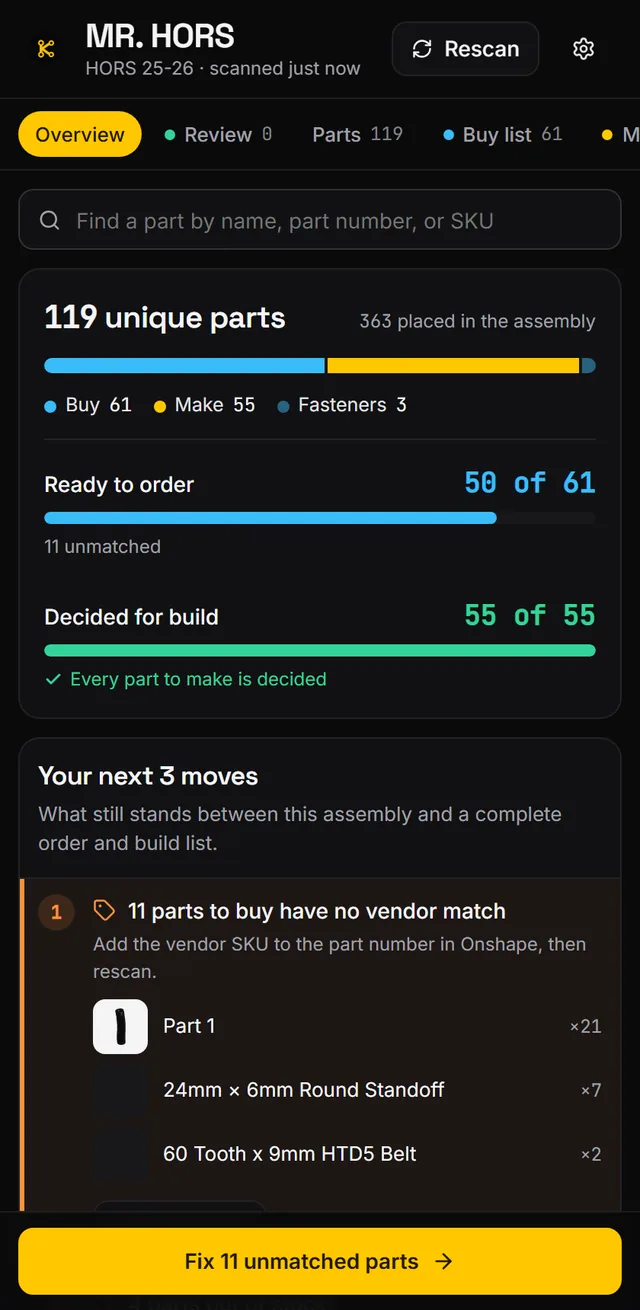
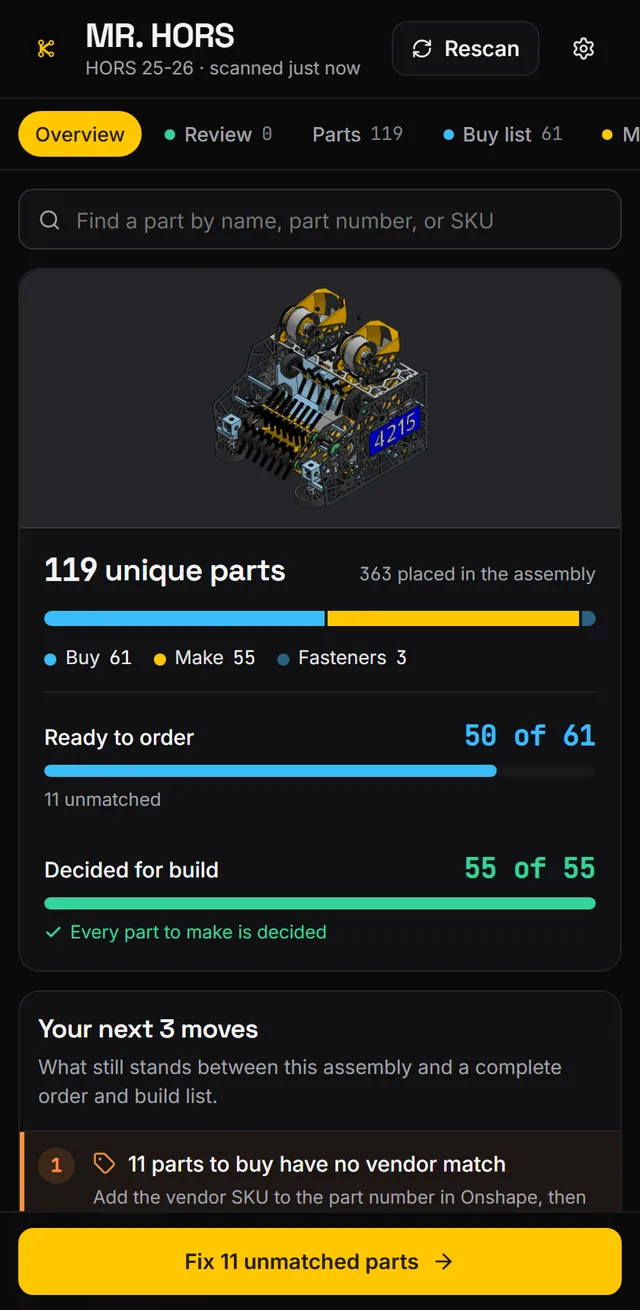
Fit the robot picture on a dark stage; recapture the listing in the new UI (#51)
The status card's Onshape picture was a grid item, so height: 100% did not
apply and the image overflowed its frame and was cropped. It is now a block
box that fits the whole robot. Onshape's shaded views are transparent, so
every picture sits on --ck-stage (#26262b) instead of light grey.

The App Store kit, install page, and share image are recaptured in the
refreshed UI, and the owner's capture of HORS scanning in Onshape is the
install page's hero and the listing's scan screenshot.

diff --git a/apps/web/src/styles/theme.css b/apps/web/src/styles/theme.css
@@ -14,6 +14,8 @@
   --ck-card: #111113;
   --ck-raised: #141416;
   --ck-muted: #18181b;
+  /* Behind Onshape pictures (transparent PNGs): light enough that black plates and edges still read. */
+  --ck-stage: #26262b;
   --ck-text: #f4f4f5;
   --ck-text-muted: #a1a1aa;
   --ck-line: #ffffff14;
@@ -236,9 +238,10 @@ button.row:hover { background: var(--ck-raised); }
 
 /* Overview status card: one bar of every unique part by how it is handled, then the two readiness meters. */
 .status { padding: 16px; display: grid; gap: 12px; }
-.hero-picture { margin: -16px -16px 0; height: 180px; border-radius: 14px 14px 0 0; overflow: hidden; background: #f4f4f5; display: grid; place-items: center; }
-.hero-picture img { width: 100%; height: 100%; object-fit: contain; }
-@media (max-width: 520px) { .hero-picture { height: 140px; } }
+.hero-picture { margin: -16px -16px 0; height: 220px; padding: 12px; border-radius: 14px 14px 0 0; overflow: hidden; background: var(--ck-stage); border-bottom: 1px solid var(--ck-line); }
+/* Block, not grid: a grid row has no definite height, so the image grew past the frame and was cut off. */
+.hero-picture img { display: block; width: 100%; height: 100%; object-fit: contain; }
+@media (max-width: 520px) { .hero-picture { height: 170px; } }
 .status-head { display: flex; flex-wrap: wrap; align-items: baseline; justify-content: space-between; gap: 4px 12px; }
 .status-head h2 { font-size: 1.25rem; }
 .share-bar { display: flex; gap: 2px; height: 10px; border-radius: 999px; overflow: hidden; background: var(--ck-muted); }
@@ -306,7 +309,7 @@ button.row:hover { background: var(--ck-raised); }
 .move-parts li { display: grid; grid-template-columns: 36px minmax(0, 1fr) auto; align-items: center; gap: 10px; font-size: 13px; }
 .move-part-name { overflow: hidden; text-overflow: ellipsis; white-space: nowrap; }
 .mini-thumb { width: 36px; height: 36px; border-radius: 8px; background: var(--ck-muted); overflow: hidden; display: grid; place-items: center; }
-.mini-thumb:has(img) { background: #f4f4f5; }
+.mini-thumb:has(img) { background: var(--ck-stage); }
 .mini-thumb img { width: 100%; height: 100%; object-fit: contain; }
 .done-strip { list-style: none; margin: 0; padding: 10px 16px; display: flex; flex-wrap: wrap; gap: 6px 16px; border-top: 1px solid var(--ck-line); font-size: 12.5px; color: var(--ck-done); }
 .done-strip li { display: inline-flex; align-items: center; gap: 6px; }
@@ -460,15 +463,15 @@ button.row:hover { background: var(--ck-raised); }
   .row, .step { padding: 10px 12px; }
 }
 
-.part-picture { margin: 0; display: grid; place-items: center; min-height: 180px; border: 1px solid var(--border); border-radius: 12px; background: #f4f4f5; overflow: hidden; }
+.part-picture { margin: 0; display: grid; place-items: center; min-height: 180px; border: 1px solid var(--border); border-radius: 12px; background: var(--ck-stage); overflow: hidden; }
 .part-picture img { display: block; width: 100%; height: auto; max-height: 260px; object-fit: contain; }
-.part-picture .muted { color: #52525b; padding: 12px; text-align: center; }
+.part-picture .muted { color: var(--ck-text-muted); padding: 12px; text-align: center; }
 
-.thumb { margin: 0; flex: none; display: grid; place-items: center; background: #f4f4f5; border-radius: 8px; overflow: hidden; }
+.thumb { margin: 0; flex: none; display: grid; place-items: center; background: var(--ck-stage); border-radius: 8px; overflow: hidden; }
 .thumb.thumb-row { display: inline-grid; width: 32px; height: 32px; margin-right: 8px; vertical-align: middle; }
 .thumb.thumb-large { width: 100%; max-width: 240px; padding: 8px; gap: 6px; }
 .thumb img { max-width: 100%; max-height: 100%; object-fit: contain; }
-.thumb.thumb-large figcaption { color: #52525b; }
+.thumb.thumb-large figcaption { color: var(--ck-text-muted); }
 
 .row.focused { background: color-mix(in srgb, var(--ck-volt) 8%, transparent); box-shadow: inset 3px 0 0 var(--ck-volt); }
 .keys-hint { padding: 8px 16px 0; }

diff --git a/apps/web/src/app/Landing.tsx b/apps/web/src/app/Landing.tsx
@@ -11,7 +11,7 @@ const appStoreUrl = 'https://cad.onshape.com/appstore';
 const listed = false;
 
 const features: Array<{ icon: ReactNode; title: string; text: string; image: string; alt: string }> = [
-  { icon: <Boxes aria-hidden />, title: 'Every part, sorted', image: 'overview', alt: 'Overview of a scanned FTC robot: 119 parts, 61 to buy, 55 to make, none waiting for review, $1768.05 priced so far',
+  { icon: <Boxes aria-hidden />, title: 'Every part, sorted', image: 'overview', alt: 'Overview of a scanned FTC robot: its Onshape picture, 119 unique parts split into 61 to buy, 55 to make, and 3 fasteners, $1,768.05 priced so far',
     text: "Control Kit reads the assembly and Onshape's bill of materials, then sorts every part into buy, make, or fastener. Vendor part numbers, standard hardware, linked libraries, and team tags such as \"(3D PRINT)\" decide most parts, so few are left for you." },
   { icon: <ShoppingCart aria-hidden />, title: 'A buy list with real prices', image: 'buy-list', alt: 'Buy list grouped by vendor, with SKUs, quantities, packs to order, prices, and stock',
     text: 'Parts are matched by SKU against the goBILDA, REV, ServoCity, AndyMark, and Pitsco catalogs. Orders round up to whole packs, and a part is priced only when its match, pack size, and price are all verified, so the total never looks complete when it isn\'t.' },
@@ -34,13 +34,13 @@ export function Landing() {
         <a className="landing-link" href={appStoreUrl} target="_blank" rel="noopener noreferrer">Onshape App Store</a>
       </div>
       {!listed && <p className="muted small">Control Kit's App Store listing is waiting for Onshape's review. The steps below work once it is listed.</p>}
-      <img className="landing-shot" src="/listing/overview.webp" width={1600} height={1000} alt={features[0].alt} />
+      <img className="landing-shot" src="/listing/in-onshape.webp" width={2000} height={1000} alt="Control Kit scanning the HORS robot in Onshape's right panel, beside the 3D assembly" />
     </header>
 
     <section className="landing-features" aria-label="What Control Kit does">
       {features.map((feature, index) => <article key={feature.title} className={`landing-feature${index % 2 ? ' flip' : ''}`}>
         <div className="landing-copy"><span className="landing-icon">{feature.icon}</span><h2>{feature.title}</h2><p>{feature.text}</p></div>
-        {index > 0 && <img className="landing-shot" src={`/listing/${feature.image}.webp`} width={1600} height={1000} loading="lazy" alt={feature.alt} />}
+        <img className="landing-shot" src={`/listing/${feature.image}.webp`} width={1600} height={1000} loading="lazy" alt={feature.alt} />
       </article>)}
     </section>
 

diff --git a/CLAUDE.md b/CLAUDE.md
@@ -238,6 +238,7 @@ UI refresh (2026-10-26, from the owner's audit "Control Kit — Full UI Audit an
 - **Screens (PR 2).** Every section opens with `SectionHead` (`bits.tsx`): an icon in its colour job and one line on what the list is for. Review becomes a green "Review complete" when empty, and only the highlighted row's likely answer is a primary button. The Buy list summary matches the Overview money card; vendor and make panels carry their colour as a top edge; stock shows as red "out of stock" / orange "low stock" (`StockNote`). The part drawer opens with a status strip (disposition, match, stock, cost). Links are neutral underlined text, since gold means make. Overview adds "Find a part" (`findParts`) and "Since your last scan" (`scanChanges`, compared by part identity, not line key); the replaced scan is kept only in memory (`previous` in `useControlKit`), so a reopened scan shows no comparison.
 - **Control Point UI (PR 3).** `useControlPoint.ts` reads `/api/control-point/*`, opens the link in a popup (Onshape's iframe cannot show Control Point's sign-in) and listens for the Worker's `control-point-linked` / `control-point-link-failed` message from the Worker origin. `ControlPoint.tsx` holds the Overview card: unlinked, a preview of this scan built by `buildControlPointPayload(result, { workspaceId: null })` grouped into Control Point sections, the payoff, Link and "Create a free workspace"; linked, the workspace picker (one workspace preselected but confirmed; none gets create and join links), then "Send full BOM to {workspace}" with the last send. A send attaches the workbook and the STEP ZIP built in this session (`lastStepZip`), or lists STEP under `filesNotIncluded`, and posts the stringified payload unmodified. When the order and build list are complete, the primary action becomes the send, then "View in {workspace}". `workspaceAccent` (`model.ts`) turns the workspace colour into `--ck-volt` and its hover/soft/ink only when it reaches 3:1 on graphite and 4.5:1 under button text; otherwise Control Kit stays volt and Settings says why. The workspace shows in the top bar chip and sidebar. Settings gains a Control Point section (switch, unlink; the team number stays separate). The status card shows the whole assembly from `/api/preview/assembly`. The fixture API stands in for the link routes (`CK_CONTROL_POINT=off|unlinked|linked|none`, `CK_CP_ACCENT`).
 - **Screenshots.** `docs/screenshots/ui-refresh/` holds each PR's verification captures at 380 px (Onshape panel) and 1440 px, taken from the fixture app with the saved HORS scan by an untracked Playwright script.
+- **Pictures and listing (2026-10-26).** Onshape's shaded views are transparent PNGs; every picture (status card, part drawer, thumbnails) now sits on `--ck-stage` (#26262b), dark enough to match the app and light enough for black plates and edges to read. The status card's picture is a block box, not a grid item, so `height: 100%` fits the whole robot instead of overflowing and cropping it. The listing kit, install page, and share image were recaptured in the refreshed UI by untracked scripts (`work/listing-shots.mjs`, `work/feature-graphic.mjs`); `5-scan.png` and the install page's hero (`listing/in-onshape.webp`) are the owner's capture of HORS scanning in Onshape.
 - **Control Point link.** `docs/control-point-link.md` is the contract both repositories build to (account-level grant, workspace picked in Control Kit, idempotency key including the workspace id, workspace `accentColor`).
 
 Control Point link, Worker side (2026-10-26, owner request "build both sides now"; supersedes the M7 and PR 12 live gate):

diff --git a/docs/app-store/listing.md b/docs/app-store/listing.md
@@ -2,7 +2,7 @@
 
 Everything Control Kit's store entry needs, ready to paste into the Onshape Developer Portal (My account → Developer → OAuth applications → Control Kit → Store entry). The owner signs in and submits; nothing here is sent automatically.
 
-Every screenshot is the live app on the HORS assembly (MR. HORS, HORS 25-26), scanned from Onshape and matched against the production vendor catalogs, rendered with the current interface on 2026-10-26: 119 parts, 61 to buy, 55 to make, none waiting for review, $1,768.05 priced from 50 of 61 buy lines. No numbers are made up.
+Every screenshot is the live app on the HORS assembly (MR. HORS, HORS 25-26), scanned from Onshape and matched against the production vendor catalogs, rendered with the current interface on 2026-10-26: 119 parts, 61 to buy, 55 to make, none waiting for review, $1,768.05 priced from 50 of 61 buy lines. No numbers are made up. `5-scan.png` is the owner's own capture of Onshape with the panel scanning HORS beside the 3D model.
 
 ## What Onshape asks for
 
@@ -87,7 +87,7 @@ Onshape publishes no image sizes, so these are large and sharp enough to be scal
 | `2-buy-list.png` | 2560 × 1600 | A buy list matched to vendor SKUs, rounded to whole packs, priced only when verified. |
 | `3-part-details.png` | 2560 × 1600 | Each part's picture from Onshape and the evidence behind its decision. |
 | `4-make-list.png` | 2560 × 1600 | Parts to print and cut, ready to download as STEP files. |
-| `5-scan.png` | 2560 × 1600 | A scan reads the assembly, its bill of materials, and the vendor catalogs in seconds. |
+| `5-scan.png` | 2000 × 1000 | Right beside your model in Onshape, a scan reads the assembly, its bill of materials, and the vendor catalogs in seconds. |
 | `6-onshape-panel.png` | 840 × 1720 | The same view in Onshape's right panel, beside your assembly. |
 
 ## Links
